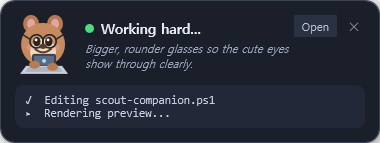
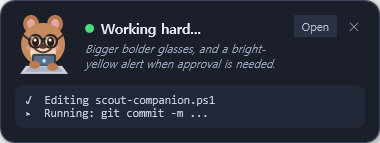
Bright yellow attention alert for approvals + bolder, cuter glasses
- When a permission is pending the whole toast switches to a bright yellow
  theme with a pulsing glow, a white permission card, a warning title and
  large Allow/Deny buttons; step list and narration are hidden to keep the
  alert focused.
- Glasses redesigned: bigger bold round frames, larger eyes and a lens
  shine so the cute eyes read clearly.

diff --git a/README.md b/README.md
@@ -13,6 +13,10 @@ back to the agent window.
 
 ![Scout Companion toast: an animated quokka mascot, live step list, and a one-click approval prompt](docs/screenshot.png)
 
+When the agent needs your approval, the toast turns bright yellow and pulses for attention:
+
+![Scout Companion approval alert: the whole toast turns bright yellow with one-click Allow / Deny](docs/alert.png)
+
 ---
 
 ## Why
@@ -32,7 +36,8 @@ place.
   and gently breathes when idle, so you can tell at a glance whether work is happening.
 - **One-click approvals** — surfaces pending permission requests and clicks the real
   Allow/Deny button inside the agent window for you (via UI Automation — no need to
-  bring the window to the foreground).
+  bring the window to the foreground). When approval is needed the whole toast turns a
+  **bright pulsing yellow** so you can't miss it.
 - **Smart visibility** — stays hidden while the agent window is focused; appears only
   when the agent is busy *and* you've looked away, or whenever an approval is pending.
 - **Zero personal data, zero config** — discovers the agent home folder, the active